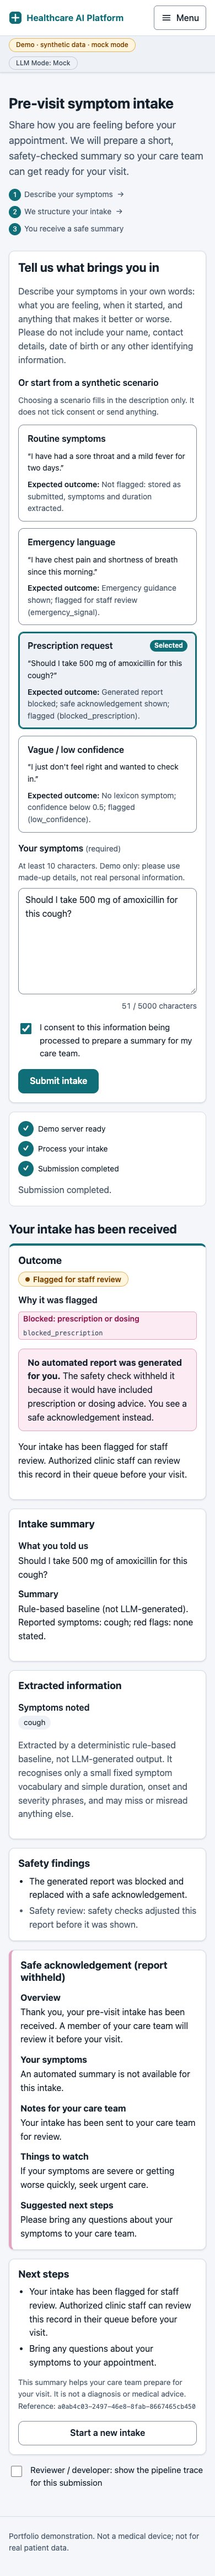
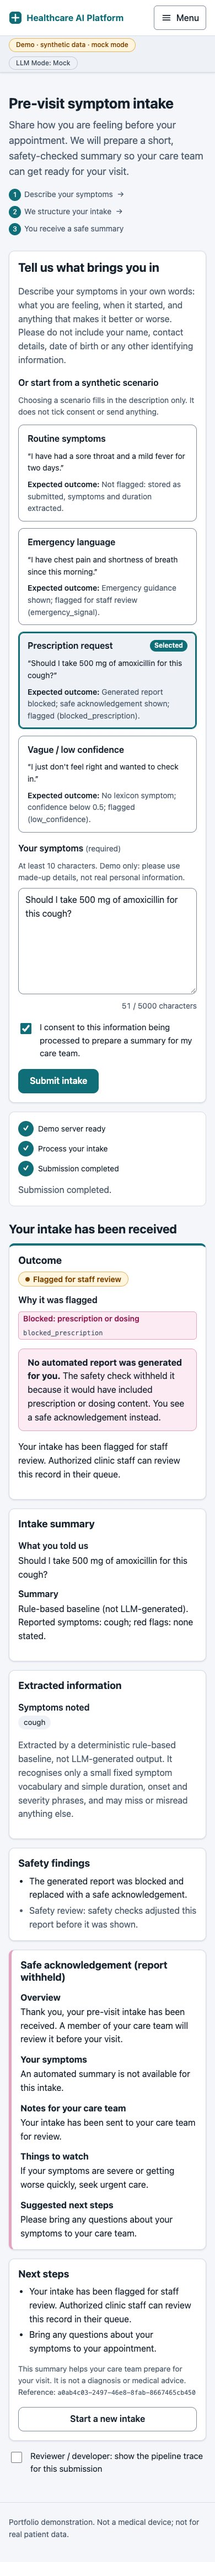
fix(ui): never imply a new queue item for duplicates; no idempotency guarantee on retry (#70)
Review Gate: a duplicate or not-stored response now shows its storage result in the badge instead of
"Flagged for staff review", with a neutral reasons heading. The network/timeout note no longer states
that resending creates no second record. Queue sentence drops "before your visit"; blocked notice says
"content" not "advice". Tests, browser matrix, evidence and journal updated.

Changed region(s): [[0.0308, 0.0311, 0.9231, 0.9646]]

diff --git a/app/components/ReportView.tsx b/app/components/ReportView.tsx
@@ -22,7 +22,16 @@ const PATIENT_STATUS: Record<string, string> = {
 
 const BLOCK_LABELS: Record<string, string> = {
   block_diagnosis: "diagnostic language",
-  block_prescription: "prescription or dosing advice",
+  block_prescription: "prescription or dosing content",
+};
+
+// Only a newly saved record is in the queue with this decision. For any other storage result the badge
+// says what happened to the record instead, so it never implies a new queue item.
+const STORAGE_BADGE: Partial<Record<StorageStatus, string>> = {
+  duplicate: "Already received · no new record",
+  disabled: "Not stored",
+  skipped: "Not stored",
+  failed: "Not stored",
 };
 
 const NOT_STORED: Partial<Record<StorageStatus, string>> = {
@@ -35,11 +44,11 @@ function whatHappensNext(outcome: IntakeOutcome): string {
   const { flagged, storage } = outcome;
   if (storage === "saved") {
     return flagged
-      ? "Your intake has been flagged for staff review. Authorized clinic staff can review this record in their queue before your visit."
+      ? "Your intake has been flagged for staff review. Authorized clinic staff can review this record in their queue."
       : "Your intake has been stored as submitted. Authorized clinic staff can see it in their queue; no review flag was raised.";
   }
   if (storage === "duplicate") {
-    return "An identical description was received earlier, so no new record was created. Clinic staff see the earlier record in their queue.";
+    return "An identical description was received earlier, so no new record was created and nothing new was added to the clinic staff queue.";
   }
   if (storage === "unknown") {
     return "The service did not report whether this intake was stored, so we cannot say whether it is in the clinic staff queue.";
@@ -97,7 +106,9 @@ export default function ReportView({ data, headingRef, actions }: ReportViewProp
       <Card as="article" className="outcome-card" data-testid="outcome-summary" aria-labelledby="outcome-heading">
         <h3 id="outcome-heading">Outcome</h3>
         <p className="outcome-status">
-          {outcome.reviewStatus ? (
+          {STORAGE_BADGE[outcome.storage] ? (
+            <StatusBadge status={outcome.storage} label={STORAGE_BADGE[outcome.storage]} />
+          ) : outcome.reviewStatus ? (
             <StatusBadge status={outcome.reviewStatus} label={PATIENT_STATUS[outcome.reviewStatus]} />
           ) : (
             <span className="muted">The service did not return a review status.</span>
@@ -105,7 +116,11 @@ export default function ReportView({ data, headingRef, actions }: ReportViewProp
         </p>
         {outcome.reasons.length > 0 && (
           <div className="outcome-reasons" data-testid="outcome-reasons">
-            <span className="field-label">Why it was flagged</span>
+            <span className="field-label">
+              {outcome.storage === "saved" || outcome.storage === "unknown"
+                ? "Why it was flagged"
+                : "Escalation rules this description matched"}
+            </span>
             <ReasonList reasons={outcome.reasons} />
           </div>
         )}

diff --git a/app/tests/IntakePage.test.tsx b/app/tests/IntakePage.test.tsx
@@ -401,7 +401,7 @@ describe("Outcome-first results", () => {
     await fillAndSubmit();
     await resultsHeading();
     expect(screen.getByTestId("blocked-notice")).toHaveTextContent(
-      "No automated report was generated for you. The safety check withheld it because it would have included prescription or dosing advice.",
+      "No automated report was generated for you. The safety check withheld it because it would have included prescription or dosing content.",
     );
     expect(screen.getByRole("heading", { name: "Safe acknowledgement (report withheld)" })).toBeInTheDocument();
     expect(screen.queryByRole("heading", { name: "Pre-visit report" })).not.toBeInTheDocument();
@@ -410,16 +410,22 @@ describe("Outcome-first results", () => {
   });
 
   it.each([
-    ["duplicate", "An identical description was received earlier, so no new record was created."],
+    ["duplicate", "so no new record was created and nothing new was added to the clinic staff queue"],
     ["disabled", "This intake was not stored (storage is turned off on this server)"],
     ["failed", "This intake was not stored (the record could not be saved)"],
-  ])("does not claim a queue entry when storage is %s", async (status, text) => {
+  ])("does not claim a new record or queue entry when storage is %s", async (status, text) => {
     const data = { ...scenarioResults.vague, persistence: { status, record_id: null } };
     render(<IntakePage checkApi={apiReady} submit={vi.fn().mockResolvedValue(success(data))} />);
     await fillAndSubmit();
     await resultsHeading();
     expect(screen.getByTestId("next-step")).toHaveTextContent(text);
     expect(screen.getByTestId("next-step")).not.toHaveTextContent("can review this record in their queue");
+    const summary = screen.getByTestId("outcome-summary");
+    // The badge reports the storage result, never "Flagged for staff review" for a record not newly saved
+    expect(within(summary).queryByText("Flagged for staff review")).not.toBeInTheDocument();
+    expect(within(summary).getByText(status === "duplicate" ? "Already received · no new record" : "Not stored")).toBeInTheDocument();
+    expect(within(summary).getByText("Escalation rules this description matched")).toBeInTheDocument();
+    expect(within(summary).getByText("low_confidence")).toBeInTheDocument();
   });
 });
 
@@ -542,6 +548,9 @@ describe("Error handling and recovery", () => {
       const alert = await screen.findByRole("alert");
       expect(alert).toHaveTextContent("We couldn't confirm your submission");
       expect(alert).toHaveTextContent("Nothing is resent automatically");
+      // No universal idempotency claim
+      expect(alert).toHaveTextContent("cannot be guaranteed");
+      expect(alert).not.toHaveTextContent("no second record is created");
       await user.click(within(alert).getByRole("button", { name: "Send again" }));
       await resultsHeading();
       expect(screen.getByTestId("next-step")).toHaveTextContent("no new record was created");

diff --git a/app/pages/intake.tsx b/app/pages/intake.tsx
@@ -42,13 +42,13 @@ const ERROR_COPY: Record<ErrorClass, { title: string; variant: "warning" | "erro
     title: "We couldn't confirm your submission",
     variant: "error",
     retry: "Send again",
-    note: "Your intake may or may not have been received. Nothing is resent automatically. If you send the same description again and it was already received, no second record is created.",
+    note: "Your intake may or may not have been received. Nothing is resent automatically. If you send it again unchanged and it had already been stored, this demo normally recognises the identical text and does not store it twice, but that cannot be guaranteed.",
   },
   timeout: {
     title: "We couldn't confirm your submission",
     variant: "error",
     retry: "Send again",
-    note: "Your intake may still have been received. Nothing is resent automatically. If you send the same description again and it was already received, no second record is created.",
+    note: "Your intake may still have been received. Nothing is resent automatically. If you send it again unchanged and it had already been stored, this demo normally recognises the identical text and does not store it twice, but that cannot be guaranteed.",
   },
 };
 

diff --git a/docs/project_journal/phase8_Frontend_Experience_&_Portfolio_Presentation.md b/docs/project_journal/phase8_Frontend_Experience_&_Portfolio_Presentation.md
@@ -348,7 +348,7 @@ About 43 s from the first check to *ready*. No environment or mode was shown bef
 * **Form** (the page now owns the values, so a failure keeps them and a reset can clear them): explicit label *Your symptoms (required)*, instructions (*At least 10 characters…*) and a request not to enter name, contact details, date of birth or other identifiers. The field is described by the hint, the counter and, when present, the error (`aria-describedby`, `aria-invalid`). Live counter *n / 5000 characters* against `MAX_TEXT_LENGTH`; a separate polite live region announces only the last 500 characters and the limit, not every keystroke. Validation rules unchanged (`validateIntake`, `maxLength`). A client error moves focus to the field and is announced (`role="alert"`). A server consent error marks and focuses the consent checkbox. Consent stays exactly as before: not required on the client, enforced by the backend when it detects personal details.
 * **Staged submission** (`app/components/SubmissionProgress.tsx`): *Wake the demo server* (or *Demo server ready*) → *Process your intake* → *Submission completed*, as a step list with `aria-current="step"` and one `role="status"` line. No percentages. The page runs the #67 readiness check once (`useApiReadiness`, now shared with the notice through the new `ApiStatusView`). A submission made before `/health` answered waits in stage 1 and **sends nothing** until it does (*"Your intake has not been sent yet"*, attempt *n* of 6). *Processing* is shown only when the POST starts. After 15 s of processing a note says it is taking longer than usual and asks not to resubmit. If the wake check gives up, the POST is never sent (class *unavailable*), and one explicit re-check runs per submission, never in the background. The *LLM Mode* badge now comes from the same `/health` answer, which removes the page's second `/health` request. Submit, text, consent and cards stay disabled for the whole submission (button *Submitting…*, plus the existing `inFlight` guard).
 * **Outcome first** (`app/components/ReportView.tsx`, `app/services/intakeOutcome.ts`): *Your intake has been received* (focused when it appears), then emergency guidance (urgent `role="alert"`, first element, *"Do not wait for the clinic to review this intake"*) whenever the safety trace requests it or `emergency_signal` is a reason. Then an **Outcome** card: `StatusBadge` from `escalation.review_status` (`submitted` → *Submitted*, `needs_review` → *Flagged for staff review*, via a new optional `label` prop; staff views unchanged), the reasons as `ReasonList`/`ReasonLabel`, a blocked-report notice when the guard blocked the report, and what happens next. All values are read from the response; nothing is re-evaluated in the browser.
-* **What happens next depends on `persistence.status`** (`agents/pipeline.py::save_record`): `saved` + flagged → *"Authorized clinic staff can review this record in their queue before your visit"*; `saved` + not flagged → stored as submitted, no review flag; `duplicate` → *"An identical description was received earlier, so no new record was created"*; `disabled`/`skipped`/`failed` → not stored, will not appear in the queue; missing → says it is unknown. The queue is never claimed for a record that was not saved.
+* **What happens next depends on `persistence.status`** (`agents/pipeline.py::save_record`): `saved` + flagged → *"Authorized clinic staff can review this record in their queue"*; `saved` + not flagged → stored as submitted, no review flag; `duplicate` → *"An identical description was received earlier, so no new record was created and nothing new was added to the clinic staff queue"*; `disabled`/`skipped`/`failed` → not stored, will not appear in the queue; missing → says it is unknown. The queue is never claimed for a record that was not saved. For a record that was not newly saved, the badge also reports the storage result (*Already received · no new record* or *Not stored*), not *Flagged for staff review*, and the reasons are headed *Escalation rules this description matched*.
 * **Sections:** Intake summary (what you told us, summary) · Extracted information (symptoms, duration, onset, severity, warning signs, and the unchanged *"deterministic rule-based baseline, not LLM-generated"* note in mock mode) · Safety findings · Pre-visit report, or **Safe acknowledgement (report withheld)** for a blocked report, with *"No automated report was generated for you"* in the outcome card · Next steps (disclaimer, reference id, *Start a new intake*).
 * **Errors and recovery** (`app/services/api.ts`): each failed outcome now carries an `errorClass`. HTTP 502 and 503 have their own messages (previously the generic processing message). Backend detail stays in the developer trace.
 
@@ -363,7 +363,7 @@ About 43 s from the first check to *ready*. No environment or mode was shown bef
 | `timeout` | client abort at 60 s | *…took too long to respond…* + *may still have been received* | *Send again* | **Unknown** |
 | `unavailable` | #67 wake check gave up | *…did not respond, so your intake was not sent…* | *Try again* (re-checks `/health` first) | No (no POST) |
 
-  Text and consent are kept on every failure (*"Your description and your consent choice have been kept"*). **No automatic retry**, because a network failure or timeout is ambiguous. *Send again* is an explicit action, and the same in-flight guard and disabled controls apply, so a retry cannot overlap another submission. Duplicate handling relies on the existing backend behaviour: identical text hits the `input_hash` unique constraint, returns `persistence: duplicate`, creates no second record, and does not fire the webhook, which runs only for `saved`. The page then shows the *identical description* next step. An edited text is a new submission.
+  Text and consent are kept on every failure (*"Your description and your consent choice have been kept"*). **No automatic retry**, because a network failure or timeout is ambiguous. *Send again* is an explicit action, and the same in-flight guard and disabled controls apply, so a retry cannot overlap another submission. The patient note does **not** promise idempotency: *"…this demo normally recognises the identical text and does not store it twice, but that cannot be guaranteed."* The backend behaviour behind "normally": when persistence is enabled, byte-identical text hits the `input_hash` unique constraint (an unsalted SHA-256 of the text), returns `persistence: duplicate`, creates no second record and does not fire the webhook, which runs only for `saved`. The page then shows the *identical description* next step. Edited text, or persistence turned off, gives no such protection.
 * **Start a new intake:** clears text, scenario, consent (unchecked), field errors, result, error, progress and the trace toggle, then moves focus to the form heading. Nothing is sent and no record is deleted.
 * **Developer trace:** still behind the reviewer toggle (#43), collapsed. It is now a `Card` with a *Reviewer only* `Tag`, and its Run section adds escalation required, review status, reasons (`ReasonList`) and storage status.
 
@@ -420,9 +420,15 @@ The new frontend is **not deployed**, so none of the above is a hosted result, a
 ### 5c. Limitations
 
 * Hosted validation pending (§5b).
-* The browser outcomes come from real mock-pipeline responses, but `persistence: saved` is set by the fixture server; the storage-dependent wording for other statuses is covered by unit tests.
+* The browser outcomes come from real mock-pipeline responses, but `persistence: saved` is set by the fixture server. The `duplicate`/not-stored badge and wording, which is what the hosted presets will show (§5b), are covered by unit tests, not by a browser screenshot.
 * Timeout (60 s) and the full 6-attempt wake failure are covered by unit tests, not browser runs; `422` with a string detail and `500` are unit-tested only.
 * The counter announces only near the limit; screen-reader output itself was not tested with a real screen reader (VoiceOver/NVDA).
 * The API's raw-text-in-response finding (#32) is unchanged (above).
 * Chrome only; Safari/Firefox, physical devices and 200 % zoom are #72.
+
+**Review Gate (2026-10-15).** The first candidate (`fdc2a1f`) had two #70 defects, both fixed with frontend wording only:
+* A `duplicate` (or not-stored) response still showed the *Flagged for staff review* badge and *Why it was flagged*, which implied a new queue item. The badge now reports the storage result and the reasons heading is neutral; tests assert this for `duplicate`, `disabled` and `failed`.
+* The network/timeout recovery note stated *"no second record is created"* as a guarantee. It now says the demo *normally* recognises identical text, *"but that cannot be guaranteed"*; a test rejects the old claim.
+
+Two small wording fixes in the same commit: the queue sentence no longer promises review *"before your visit"*, and the blocked notice says *"prescription or dosing content"* instead of *"advice"*. Lint, typecheck, 179 tests and build pass. The 30-run browser matrix was re-run (0 overflow, no target under 44 × 44, nothing clipped, same focus and keyboard results), and the committed screenshots and `measurements.json` were refreshed.
 
